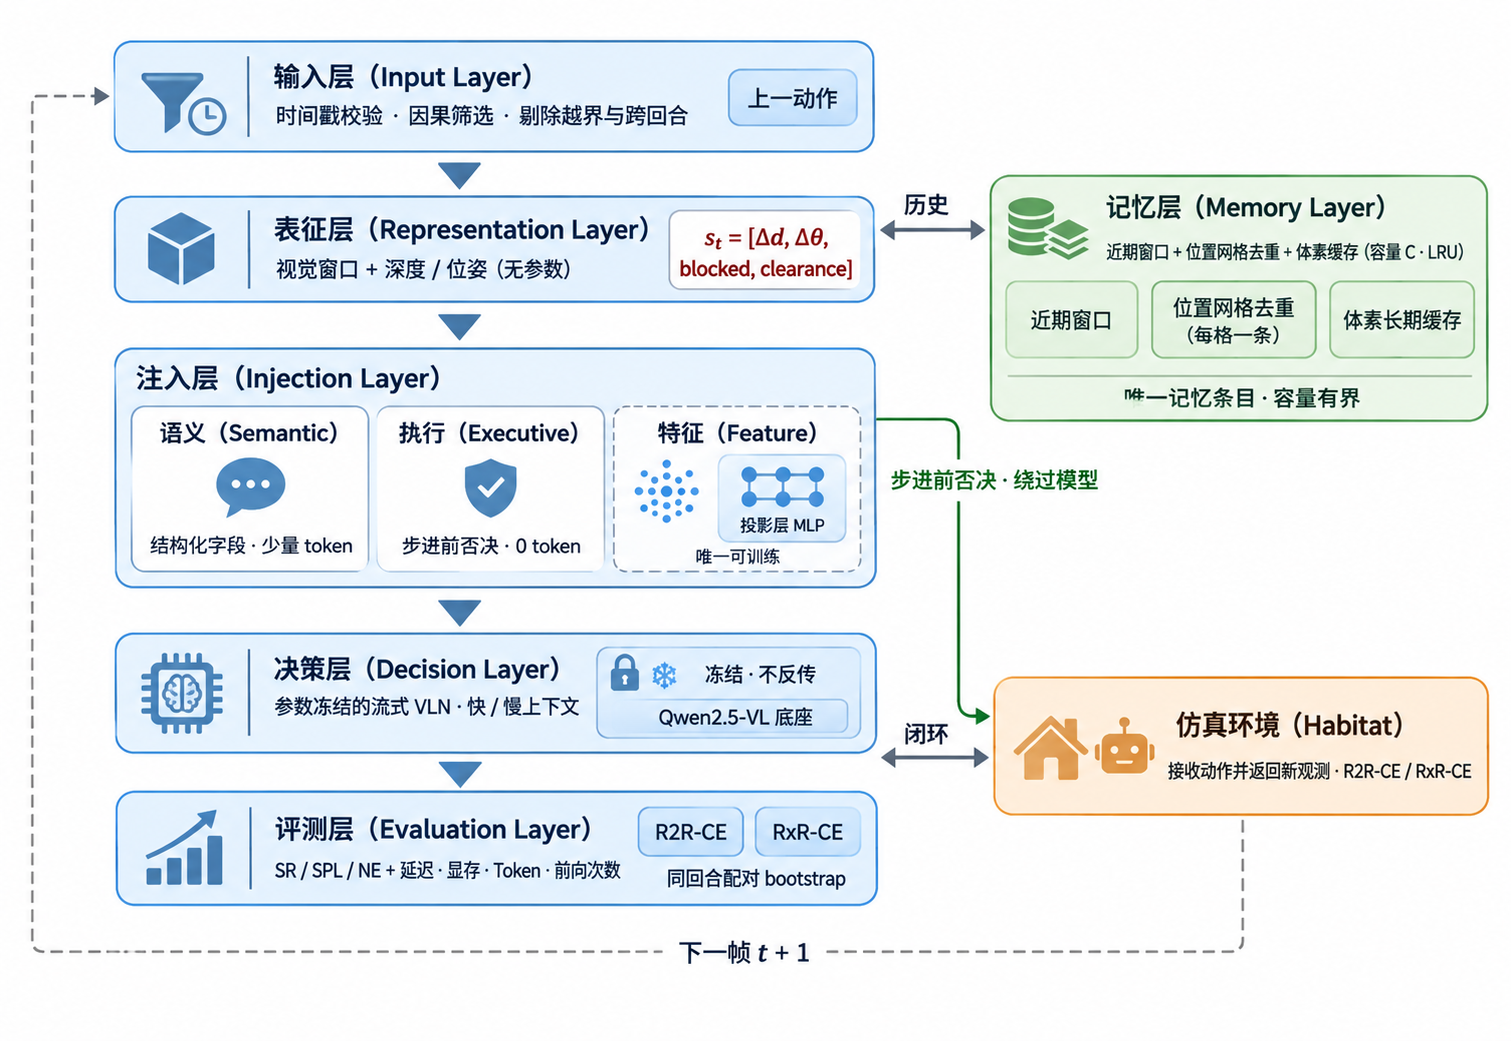
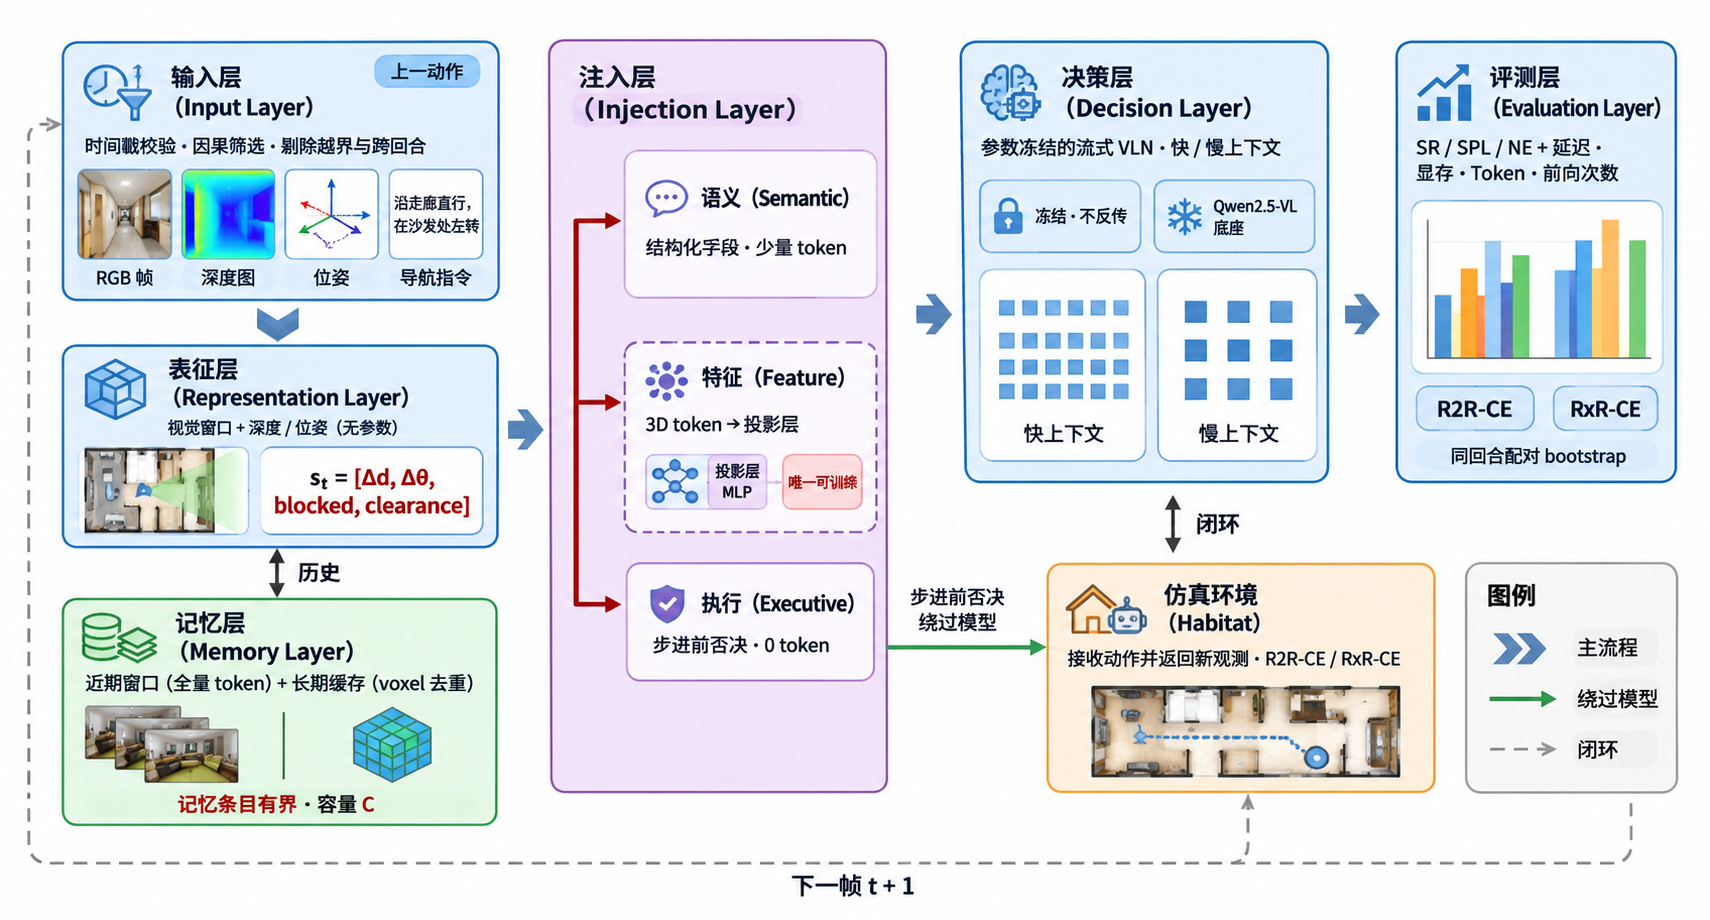
更新

diff --git a/chapters/proposal_body.tex b/chapters/proposal_body.tex
@@ -14,7 +14,7 @@
 
 据此，本课题拟研究多模态流式感知与有界时空记忆驱动的 VLN 方法，目标有三：一是建立严格因果的在线输入与统一评测框架；二是通过语义层与执行层以训练无关的方式将几何与运动状态注入决策，并考察经小型投影层的特征层注入；三是设计规模有界的时空记忆，并通过可分离混杂因素的对照实验，定量刻画视觉、几何、运动与记忆四类信息的边际贡献与代价。
 
-\textbf{研究意义：}方法上，本课题不追求新的端到端模型，而是在冻结权重的条件下考察各类信息的贡献，并给出可证伪的对照协议，有助于厘清流式导航的能力来源；工程上，方案以结构化字段与有界缓存实现，除特征层的小型投影层外不增加参数，在单卡上即可验证与迁移；评测上，同步记录精度与在线开销，使精度与效率的权衡可以得到检验，而不是作为默认假设。
+\textbf{研究意义：}方法上，本课题不以提出新的端到端模型为目标，而以冻结权重的既有模型为固定参照，在等预算条件下逐项考察视觉、几何、运动与记忆四类信息的贡献，并给出可证伪的对照协议，使“流式导航的能力来自何处”由默认假设转为可检验的问题。工程上，改进以结构化字段与有界缓存实现，除特征层的小型投影层外不引入参数，各模块可独立开关，便于在单卡条件下复现、归因并推广至其他流式基线。评测上，精度与在线开销同步记录、同一口径报告，使二者的权衡成为可检验的对象。
 
 \tjformsubsection{2．国内外在该方向的研究现状和发展趋势}
 
@@ -42,7 +42,7 @@
   \item \textbf{因果流式输入与统一评测框架。}研究 R2R-CE 与 RxR-CE 的数据组织、指令形式、观测与评测方式，建立以时间戳为约束的在线输入流程：决策仅接收不晚于当前时刻的样本，乱序、越界与跨回合观测一律拒绝。同时，建立统一的指标与开销记录体系，使精度与效率在同一口径下可比。
   \item \textbf{视觉流式基线与历史组织分析。}以代表性流式模型为基础，构建单帧、固定窗口与历史流等不同历史组织方式的基线，分别考察历史长度、决策更新频率与缓存策略对导航精度与推理效率的影响，从而明确后续改进的边界条件与成本瓶颈。
   \item \textbf{空间状态的多层级表征与注入。}由深度导出局部几何，由位姿与已下发动作导出运动状态，并将同一份状态分三层注入：以定长结构化字段进入上下文（语义层）；在动作执行前参与可行性否决与卡死恢复（执行层）；将深度反投影为三维 token，经小型投影层并入视觉序列（特征层）。前两层训练无关，特征层仅训练投影层，用于考察模型能否在表征层面利用几何信息。
-  \item \textbf{有界时空记忆与空间冗余剪枝。}针对历史冗余、上下文增长与空间重复观测等问题，研究近期窗口与长期缓存的分层组织、基于位置网格的空间去重与检索策略，以及将历史视觉特征按深度反投影到体素后合并的剪枝方法，使记忆规模与输入预算均有界。
+  \item \textbf{有界时空记忆与空间冗余剪枝。}针对历史冗余、上下文增长与空间重复观测等问题，研究近期窗口与长期缓存的分层组织、将历史视觉 token 按深度反投影到体素后的去重方法，以及缓存容量约束与淘汰策略，使记忆规模与输入预算均有界。
   \item \textbf{对照、消融、鲁棒性与效率实验。}设计可分离信息内容、输入长度与执行扰动的对照组，在两个基准上开展主实验、消融实验与感知退化条件下的鲁棒性实验，并对结果进行配对统计检验与误差分析。
 \end{enumerate}
 
@@ -58,19 +58,20 @@
 
 \textbf{（2）因果流式输入与评测口径。}各传感器观测统一记录采集时刻，决策仅使用不晚于该时刻的样本；乱序、越界与跨回合数据一律拒绝；缺失深度按“未知”处理，不解释为可通行；每回合独立清空记忆与模型状态。评测在 R2R-CE 与 RxR-CE 上开展，除 SR、SPL、NE 外，还逐回合记录推理延迟、显存峰值、输入 token 与前向次数，使精度与效率在同一口径下可比。
 
-\textbf{（3）空间状态的多层级表征与注入。}几何侧由深度反投影得到局部可通行描述，补充单帧图像难以给出的距离与通行性信息；运动侧由位姿与已下发动作得到位移、转角与受阻标记，为碰撞与滑移提供反馈。二者构成同一份定长状态，该状态不引入可训练参数，也不保证障碍的完整性。注入分三层：语义层将状态写成结构化字段，插入指令与动作请求之间，供模型参考但不改变执行；执行层在环境步进前否决不可通行方向，并在卡滞时触发恢复转向，该层不消耗 token，但会改变动作分布；特征层将三维点经小型投影层映射为 token，并与视觉 token 拼接，使几何以表征形式参与推理，该层是唯一需要训练的环节，模型主体仍保持冻结。三层增益的来源可能不同，须分别评估。
+\textbf{（3）空间状态的多层级表征与注入。}几何侧由深度反投影得到局部可通行描述，补充单帧图像难以给出的距离与通行性；运动侧由位姿与已下发动作得到位移、转角与受阻标记，为碰撞与滑移提供反馈。注入分三层：语义层将状态写成结构化字段，插入指令与动作请求之间，仅供参考，不改变执行；执行层在环境步进前否决不可通行方向，并在卡滞时触发恢复转向，不消耗token，但会改变动作分布；特征层将三维点经小型投影层映射为token并与视觉token拼接，是唯一需要训练的环节。同一份深度有两处用途：当前帧据此生成三维token并注入视觉序列，历史帧则据其与位姿确定记忆token的世界坐标，供长期缓存体素去重。
 
-\textbf{（4）有界时空记忆。}记忆由近期窗口与长期缓存组成：近期窗口保留最新若干帧以维持短期连续性；淘汰出窗口的观测写入长期缓存，缓存以位置网格为键，同一网格只保留最近一条，容量已满时按最久未更新原则淘汰；检索时先按标签与指令的匹配程度排序，再按时间次序排列，并限制单次检索条数。由此，历史记录数与模型可见条目数均有界。在此基础上，于特征层面再按深度将历史特征反投影到体素，并合并落入同一体素的 token，使记忆规模随重复观测收敛，而不随回合长度线性增长。
+\textbf{（4）有界时空记忆。}记忆由近期窗口与长期缓存组成：近期窗口保留最新若干帧，其token全量进入视觉序列，更早的帧经视觉塔与池化后写入长期缓存。长期缓存按几何去重：将每个记忆token依像素中心深度与相机内参反投影到世界坐标，按固定边长（如0.3m）量化入体素，仅当更新的帧也占据同一体素时才丢弃旧观测，从而在不聚合特征的前提下消除重复观测。缓存另设容量上限，超出时按“越新越优先”截断，并为每帧保留最少数量的token，以免小物体被整体消除。由此，记忆token数与输入预算均有界，且随重复观测收敛，而不随回合长度线性增长。
 
 \textbf{（5）实验设计与评价。}实验按信息集合分组：以纯视觉为基准，逐步加入几何与运动状态，并设置仅执行通道、等长占位符与随机否决等对照，以区分增益来源；特征层设置等预算对照，以区分几何信息与序列变长各自的贡献。各组使用相同的回合集合与随机种子，并以同回合配对的 bootstrap 区间而非跨样本均值作为判据。记忆部分设置等预算对照与容量扫描，并按路径与指令长度分箱，考察长时收益；鲁棒性实验在感知侧施加光照、深度与位姿扰动，且扰动仅作用于已观测数据。除平均指标外，还同时观察卡死回合比例与前向次数，作为闭环有效性的旁证。
 
 \textbf{（6）可行性。}方法上，本课题不训练模型主体，改进集中于输入组织、上下文构造与小型投影层，算力需求低、风险可控；几何与状态的提取为确定性计算，结果可解释、可复现。条件上，连续导航的场景数据、标注与官方权重均已就位，Habitat 环境与评测链路已在单卡上跑通，基线指标与原文报告值接近，具备开展对照实验的直接条件。实现上，几何与状态模块独立于模型，可单独开关和替换，便于逐项归因。
 
-\textbf{（7）存在的困难与应对。}一是算力有限，全量评测成本较高，拟以固定子集开展主要对照，必要时再补充全量验证。二是几何信息的作用可能有限，仅以文本描述几何的收益并不稳定，故将几何按语义、执行、特征三层分别检验，并接受负结果。三是特征层需要少量训练，而单卡条件下训练规模受限；拟先以零训练方式验证模型能否直接接受三维 token，再决定是否引入投影层训练与对齐损失，若收益不足则退回前两层。四是位姿取自仿真中的理想定位，与真实里程计存在差距，拟将位姿噪声作为独立因素加以考察，不宣称已具备实机定位能力。
+\textbf{（7）存在的困难与应对。}一是是几何信息的作用可能有限，仅以文本描述几何的收益并不稳定，故将几何按语义、执行、特征三层分别检验，并接受负结果。二是特征层需要少量训练，而单卡条件下训练规模受限；拟先以零训练方式验证模型能否直接接受三维 token，再决定是否引入投影层训练与对齐损失，若收益不足则退回前两层。三是位姿取自仿真中的理想定位，与真实里程计存在差距，拟将位姿噪声作为独立因素加以考察，不宣称已具备实机定位能力。
 
 \tjformsubsection{3．工作进度安排}
-
 \begin{table}[H]
+  \setlength{\intextsep}{0pt}% 表格紧跟标题（浮动体默认上下各留 1 行空白）
+  \setlength{\abovecaptionskip}{4pt}%
   \centering
   \caption{工作进度安排}
   \begin{tabularx}{\textwidth}{@{}l X@{}}

diff --git a/proposal.tex b/proposal.tex
@@ -2,7 +2,7 @@
 
 % 开题报告封面填表日期：重定义日期填空，不修改类文件与版式
 % 若需改为其他日期，只改下面的年/月/日数字即可
-\renewcommand{\tjdateblank}{\tjnumline{3em}{2026}~年~\tjnumline{2em}{11}~月~\tjnumline{2em}{10}~日}
+\renewcommand{\tjdateblank}{\tjnumline{3em}{2026}~年~\tjnumline{2em}{11}~月~\tjnumline{2em}{11}~日}
 
 \tjbibresource{bib/note.bib}
 
